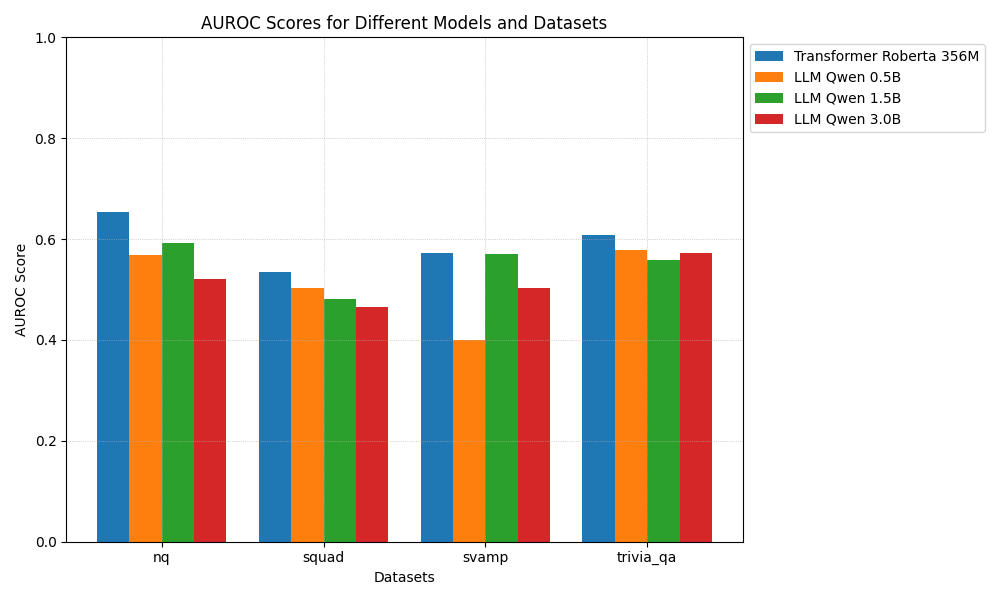
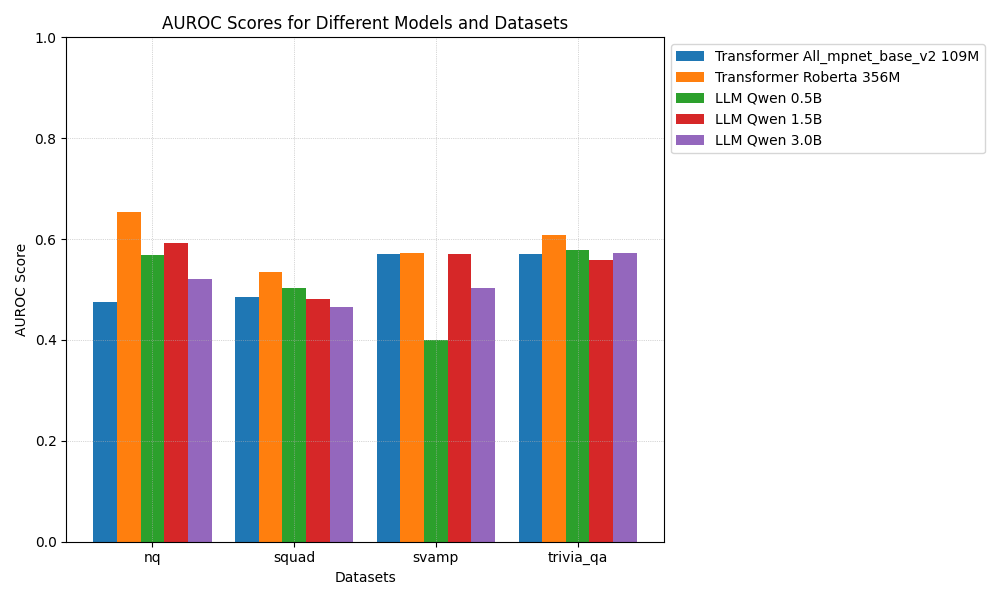
added functionality and results for sentence embeddings used as entailment models
generate_results.py
generate_SE has a parameter for the entail function instead of a boolean to select between different ones

	data.py
bug fix in load_results

	metrics.py
added spacing between datasets in visualise_results

	semantic_entropy
added functions to use cosine similarity of sentence embeddings as an entailment method

Changed region(s): [[0.093, 0.33, 0.713, 0.99], [0.651, 0.06, 0.992, 0.27], [0.155, 0.03, 0.62, 0.06]]

diff --git a/generate_results.py b/generate_results.py
@@ -3,7 +3,7 @@
 from torch.cuda import empty_cache
 from tqdm import tqdm
 from copy import deepcopy
-from my_utils.semantic_entropy import gen_responses_probs, is_entailment_transformer, is_entailment_llm, cluster_responses, calculate_sem_entr
+from my_utils.semantic_entropy import gen_responses_probs, cluster_responses, calculate_sem_entr
 from my_utils.metrics import assess_acc
 
 
@@ -17,7 +17,7 @@ def generate_answers(datasets, data_answers_path, llm_model, llm_tokenizer):
         llm_tokenizer (AutoTokenizer): The tokenizer associated with the language model
 
     Returns:
-        None: The results are directly saved to disk.
+        None: The results are directly saved to disk
     """
     
     for dataset in datasets:
@@ -49,22 +49,20 @@ def generate_answers(datasets, data_answers_path, llm_model, llm_tokenizer):
         dataset.save_to_disk(data_answers_path + dataset.info.description)  
 
 
-def generate_SE(datasets, data_entail_path, llm_tokenizer, entail_model, entail_tokenizer, llm_entail):
+def generate_SE(datasets, data_entail_path, llm_tokenizer, entail_model, entail_tokenizer, entail_function):
     """Computes Semantic Entropy (SE) and clusters responses for questions in multiple datasets
 
     Parameters:
         datasets (list): A list of datasets, where each dataset contains questions and previously generated answers
-        data_entail_path (str): The directory path where the updated datasets with SE and clusters will be saved.
+        data_entail_path (str): The directory path where the updated datasets with SE and clusters will be saved
         llm_tokenizer (AutoTokenizer): The tokenizer for decoding responses
         entail_model (AutoModelForSequenceClassification or AutoModelForCausalLM): The model used for entailment evaluation
         entail_tokenizer (AutoTokenizer): The tokenizer associated with the entailment model
-        llm_entail (bool): If True, uses llm for entailment otherwise, uses transformer
+        entail_function (function): Fuction that will be used to assess bidirectional entailment
 
     Returns:
-        None: The results are directly saved to disk.
+        None: The results are directly saved to disk
     """
-
-    is_entailment = is_entailment_llm if(llm_entail) else is_entailment_transformer
 
     for dataset in datasets:
         all_clusters = []
@@ -75,7 +73,7 @@ def generate_SE(datasets, data_entail_path, llm_tokenizer, entail_model, entail_
 
         for i in tqdm(range(len(dataset_copy))):
             # Calculate semantic entropy
-            clusters = cluster_responses(dataset_copy[i]["generated_answers"], llm_tokenizer, is_entailment, entail_model, entail_tokenizer, dataset_copy[i]["question"])
+            clusters = cluster_responses(dataset_copy[i]["generated_answers"], llm_tokenizer, entail_function, entail_model, entail_tokenizer, dataset_copy[i]["question"])
             empty_cache()
             sem_entr = calculate_sem_entr(clusters, dataset_copy[i]["generated_answers"]["sequences_probabilities"])
             empty_cache()

diff --git a/my_utils/semantic_entropy.py b/my_utils/semantic_entropy.py
@@ -3,6 +3,7 @@
 import torch
 import torch.nn.functional as F
 import numpy as np
+from numpy.linalg import norm
 from config import DEVICE
 
 
@@ -56,6 +57,51 @@ def gen_responses_probs(model, tokenizer, question, number_responses=10, tempera
     }
 
     return outputs
+
+
+def mean_pooling(model_output, attention_mask):
+    """
+    Performs mean pooling on token embeddings while considering the attention mask.
+    This ensures that padding tokens do not contribute to the resulting sentence embedding.
+
+    Parameters:
+        model_output (torch.Tensor): The output from the model's forward pass and the first element contains the token embeddings
+        attention_mask (torch.Tensor): A tensor of shape [batch_size, seq_length] indicating the attention mask
+
+    Returns:
+        torch.Tensor: A tensor of shape [batch_size, embedding_dim] representing the pooled sentence embeddings for each input sentence.
+    """
+
+    token_embeddings = model_output[0]
+    input_mask_expanded = attention_mask.unsqueeze(-1).expand(token_embeddings.size()).float()
+
+    return torch.sum(token_embeddings * input_mask_expanded, 1) / torch.clamp(input_mask_expanded.sum(1), min=1e-9)
+
+
+def is_entailment_embeddings(model, tokenizer, premise, hypothesis, question=""):
+    """ Checks if two sentences have bidirectional entailment using a sentence embedding model
+    
+    Parameters:
+        model (AutoModel): The Sentence Embedding model
+        tokenizer (AutoTokenizer): The tokenizer for the Sentence Embedding model
+        premise (string): The first sentence to be evaluated
+        hypothesis (string): The second sentence to be evaluated for entailment
+        question (string): question (str, optional): The question context related to the sentences 
+                           (not used in this function, only for compatibility)
+
+    Returns:
+        boolean: Returns True if both sentences entail each other (bidirectional entailment), otherwise False
+    """
+
+    encoded_input = tokenizer([premise, hypothesis], padding=True, truncation=True, return_tensors='pt').to(DEVICE)
+    with torch.no_grad():
+        model_output = model(**encoded_input)
+
+    sentence_embeddings = mean_pooling(model_output, encoded_input['attention_mask']) # Perform pooling
+    sentence_embeddings = F.normalize(sentence_embeddings, p=2, dim=1).detach().cpu() # Normalize embeddings
+    cosine = np.dot(sentence_embeddings[0], sentence_embeddings[1]) / (norm(sentence_embeddings[0]) * norm(sentence_embeddings[1]))
+    
+    return True if cosine >= 0.5 else False
 
 
 def is_entailment_transformer(model, tokenizer, premise, hypothesis, question=""):

diff --git a/my_utils/data.py b/my_utils/data.py
@@ -109,19 +109,19 @@ def load_results(base_path):
               }
     """
      
-    datasets = {}
+    loaded_datasets = {}
 
     # Iterate over the entailment models (directories under base_path)
     for model in os.listdir(base_path):
         model_path = os.path.join(base_path, model)
         if os.path.isdir(model_path):
-            datasets[model] = {}
+            loaded_datasets[model] = {}
             
             # Iterate over the versions
             for version in os.listdir(model_path):
                 version_path = os.path.join(model_path, version)
                 if os.path.isdir(version_path):
-                    datasets[model][version] = []
+                    loaded_datasets[model][version] = []
                     
                     # Iterate over the datasets in each version
                     for dataset_name in os.listdir(version_path):
@@ -129,10 +129,10 @@ def load_results(base_path):
                         if os.path.exists(dataset_path):
                             try:
                                 dataset_object = datasets.load_from_disk(dataset_path)
-                                datasets[model][version].append({dataset_name: dataset_object})
+                                loaded_datasets[model][version].append({dataset_name: dataset_object})
                                 print(f"Loaded {dataset_name} from {model}/{version}")
                             except Exception as e:
                                 print(f"Failed to load {dataset_name} from {model}/{version}: {e}")
                     print()
 
-    return datasets
+    return loaded_datasets

diff --git a/my_utils/metrics.py b/my_utils/metrics.py
@@ -107,7 +107,8 @@ def visualise_results(models_names, datasets_names, results):
         None
     """
 
-    x = np.arange(len(datasets_names))
+    spacing = 1.2  # Adjust this value to control the space between datasets
+    x = np.arange(0, len(datasets_names) * spacing, spacing)
     width = 0.2  # Bar width
 
     fig, ax = plt.subplots(figsize=(10, 6))
